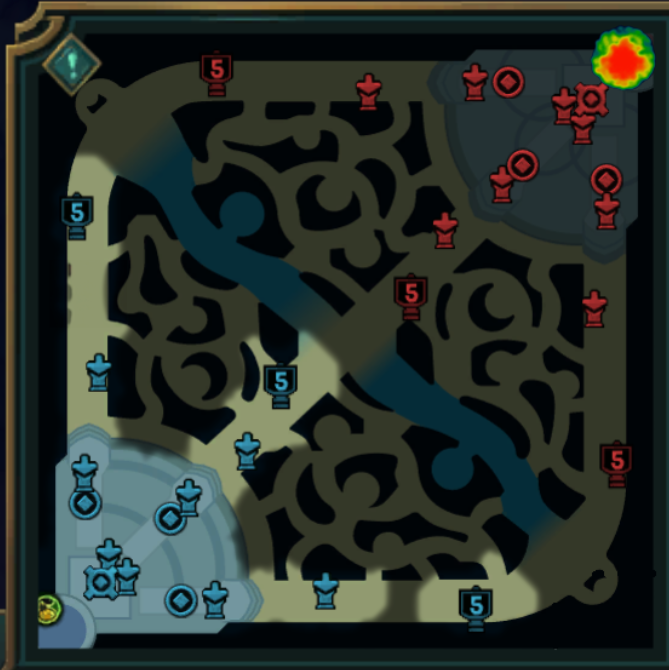
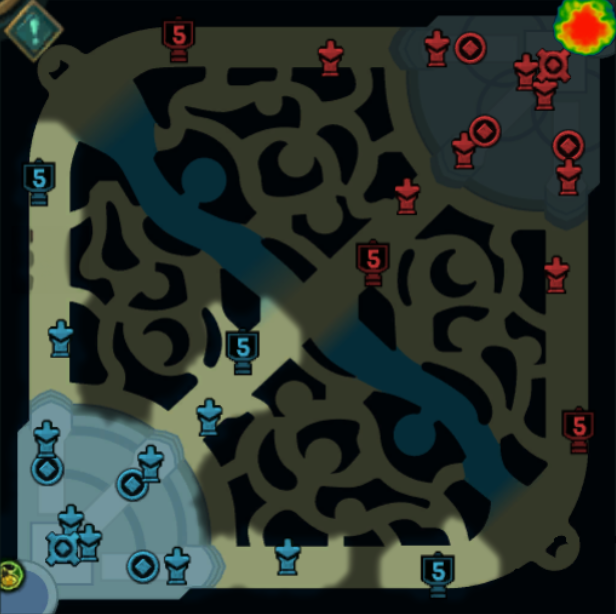
Add files via upload

diff --git a/Riot.py b/Riot.py
@@ -2,7 +2,7 @@ import requests
 import cv2
 import keyboard
 
-ApiKey = "RGAPI-c16df5a5-7eb4-408d-9b59-bee6b1c520de"
+ApiKey = "RGAPI-59131c3a-7bf5-48ec-a67e-cf454b4fc5dd"
 header = {"X-Riot-Token": ApiKey}
 DeathPosition = []
 GameColor = []
@@ -124,87 +124,98 @@ for i in GameData:
     Total['gamecode'] = i
     TotalScore.append(dict(Total))
 
-for Data in TotalScore:
-    print("kill")
-    for i in Data["kill"]:
-        for A in i:
-            if dict == type(A):
-                if "x" in A:
-                    print(A["x"])
-                if "y" in A:
-                    print(A["y"])
-            else:
-                print(A)
-    print()
-    
-    print("death")
-    for i in Data["death"]:
-        for A in i:
-            if dict == type(A):
-                if "x" in A:
-                    print(A["x"])
-                if "y" in A:
-                    print(A["y"])
-            else:
-                print(A)
-    print()
-    if "gamecode" in Data:
-        print(Data["gamecode"])
-
-image = cv2.imread('C:/Users/home/Desktop/riotapi-main/riotapi-main/minimap.png')
+image = cv2.imread('C:/Users/c404/Desktop/sangjin/riotapi-main/minimap.png')
+ImageCount = 0
+MapType = "kill"
 while True:
     State = "change"
-    KillMap = cv2.copy(image)
-    DeathMap = cv2.copy(image)
-
+    KillMap = cv2.resize(image, dsize = (15000,15000), interpolation = cv2.INTER_AREA)
+    DeathMap = cv2.resize(image, dsize = (15000,15000), interpolation = cv2.INTER_AREA)
     
-    Map = cv2.resize(image, dsize = (15000,15000), interpolation = cv2.INTER_AREA)
-
+    (h,w) = KillMap.shape[:2]
+    (cX, cY) = (w/2, h/2)
+    
+    (h,w) = DeathMap.shape[:2]
+    (cX, cY) = (w/2, h/2)
+    
+    M = cv2.getRotationMatrix2D((cX, cY),180,1.0)
+    KillMap = cv2.warpAffine(KillMap,M,(h,w))
+    DeathMap = cv2.warpAffine(DeathMap,M,(h,w))
+    
+    i = 0
     for Data in TotalScore:
-        for Info in Data["kill"]:
-            for i in Info:
-                if dict == type(i):
-                    if "x" in i:
-                        x = i["x"]
-                    if "y" in i:
-                        y = i["y"]
-                    cv2.line(KillMap, (int(x), int(y)), (int(x), int(y)), (0,255,0), 100)
-        for Info in Data["kill"]:
-            for i in Info:
-                if dict == type(i):
-                    if "x" in i:
-                        x = i["x"]
-                    if "y" in i:
-                        y = i["y"]
-                    cv2.line(DeathMap, (int(x), int(y)), (int(x), int(y)), (0,255,0), 100)
-                        
-    cv2.imshow("kill", Map)
-'''
-for i in killmap:
-    x = i['x'] / 24.39 + 34
-    y = i['y'] / 24.39 + 42
-    cv2.line(killImage, (int(x), int(y)), (int(x), int(y)), (0,255,0), 3)
-
-for i in deathmap:
-    x = i['x'] / 24.39 + 34
-    y = i['y'] / 24.39 + 42
-    cv2.line(deathImage, (int(x), int(y)), (int(x), int(y)), (0,0,255), 3)
-'''
+        if ImageCount == i:
+            for Info in Data["kill"]:
+                for i in Info:
+                    if dict == type(i):
+                        if "x" in i:
+                            x = i["x"]
+                        if "y" in i:
+                            y = i["y"]
+                        cv2.line(KillMap, (int(x), int(y)), (int(x), int(y)), (0,255,0), 100)
+            for Info in Data["death"]:
+                for i in Info:
+                    if dict == type(i):
+                        if "x" in i:
+                            x = i["x"]
+                        if "y" in i:
+                            y = i["y"]
+                        cv2.line(DeathMap, (int(x), int(y)), (int(x), int(y)), (255,0,0), 100)
+            break
+        i += 1
+    
+    M = cv2.getRotationMatrix2D((cX, cY),-180,1.0)
+    KillMap = cv2.warpAffine(KillMap,M,(h,w))
+    DeathMap = cv2.warpAffine(DeathMap,M,(h,w))
+    KillMap = cv2.resize(KillMap, dsize = (500,500), interpolation = cv2.INTER_AREA)
+    DeathMap = cv2.resize(DeathMap, dsize = (500,500), interpolation = cv2.INTER_AREA)
+    cv2.imshow(MapType, KillMap)
 
     cv2.waitKey()
     while True:
-        if keyboard.is_pressed("right"):
-            State = "right"
-        elif keyboard.is_pressed("left"):
-            State = "left"
-        elif keyboard.is_pressed("enter"): 
-            cv2.destroyAllWindows()
-            State = "close"
-            break
+        if State == "change":
+            if keyboard.is_pressed("right"):
+                State = "right"
+                break
+            elif keyboard.is_pressed("left"):
+                State = "left"
+                break
+            elif keyboard.is_pressed("up"):
+                State = "up"
+                break
+            elif keyboard.is_pressed("down"):
+                State = "down"
+                break
+            elif keyboard.is_pressed("enter"): 
+                State = "close"
+                break
+    
+    
     if State == "close":
+        #cv2.destroyAllWindows()
         break
     elif State == "right":
-        
+        #cv2.destroyAllWindows()
+        if ImageCount >= int(GameCount):
+            ImageCount = 0
+        else:
+            ImageCount += 1
     elif State == "left":
-        
+        #cv2.destroyAllWindows()
+        if ImageCount <= 0:
+            ImageCount = int(GameCount)
+        else:
+            ImageCount -= 1
+    elif State == "up":
+        #cv2.destroyAllWindows()
+        if (MapType == "kill"):
+            MapType = "death"
+        else:
+            MapType = "kill"
+    elif State == "down":
+        #cv2.destroyAllWindows()
+        if (MapType == "kill"):
+            MapType = "death"
+        else:
+            MapType = "kill"
 
